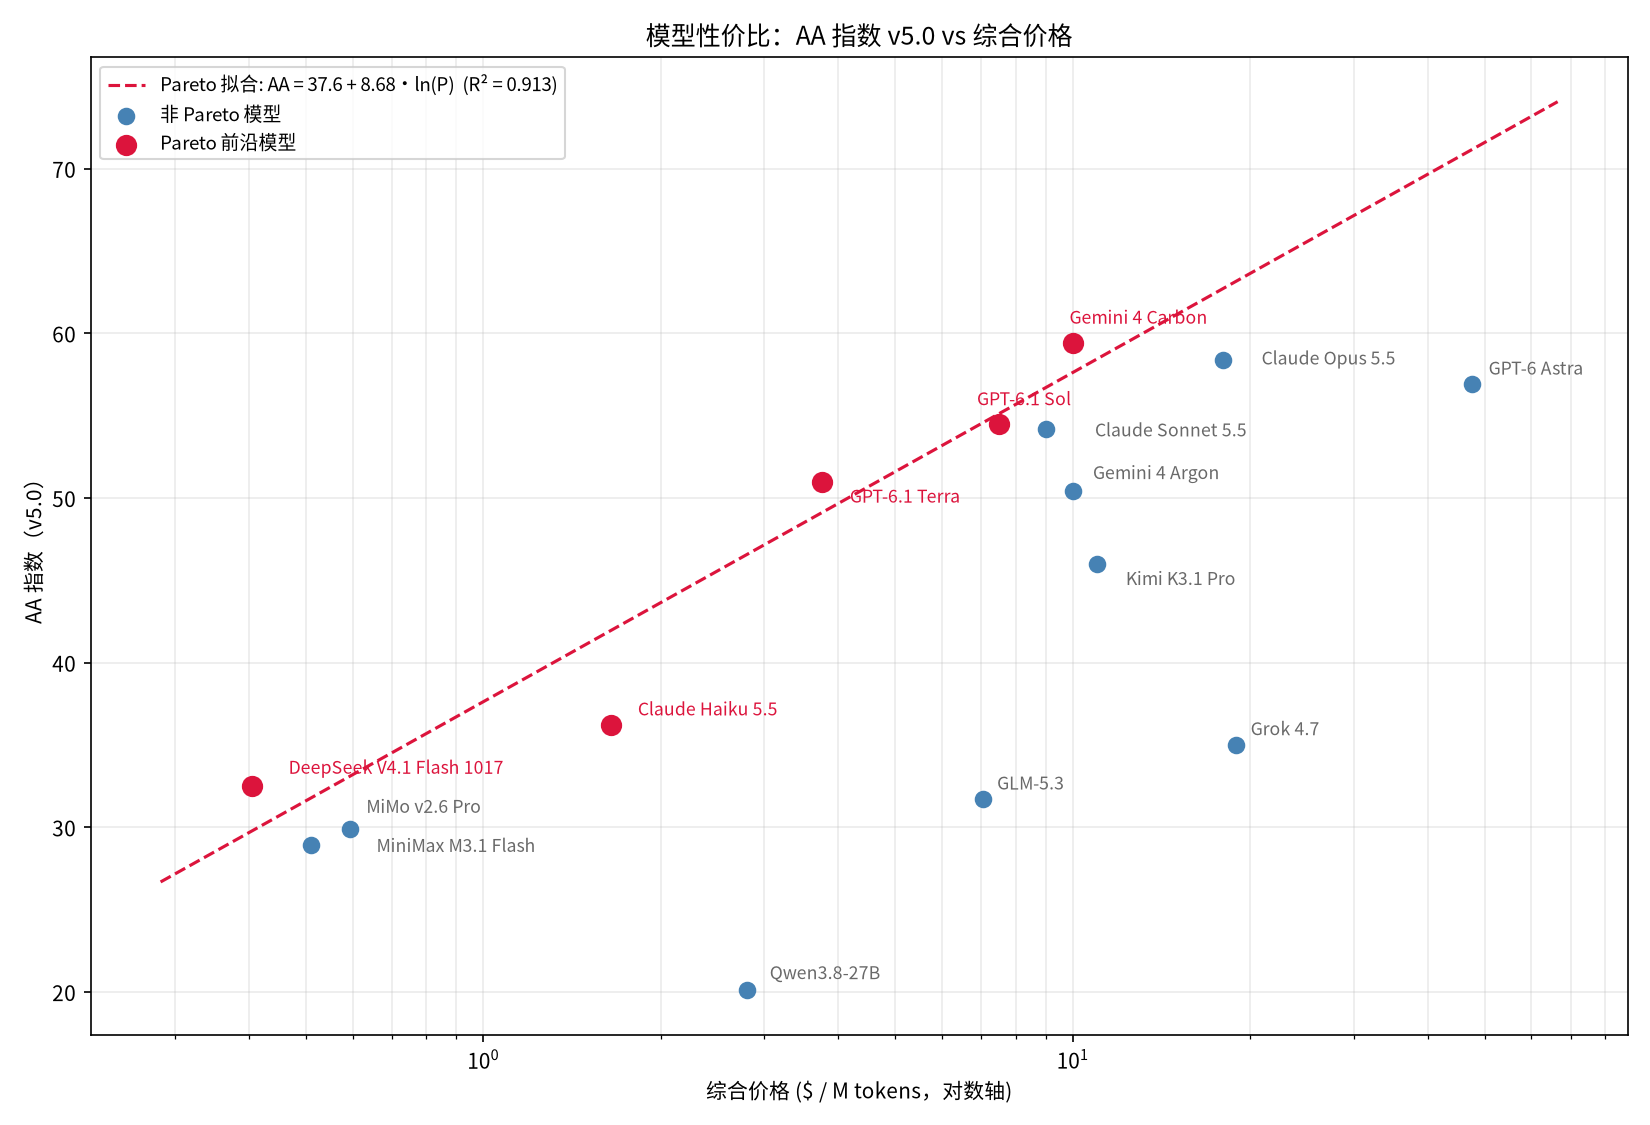
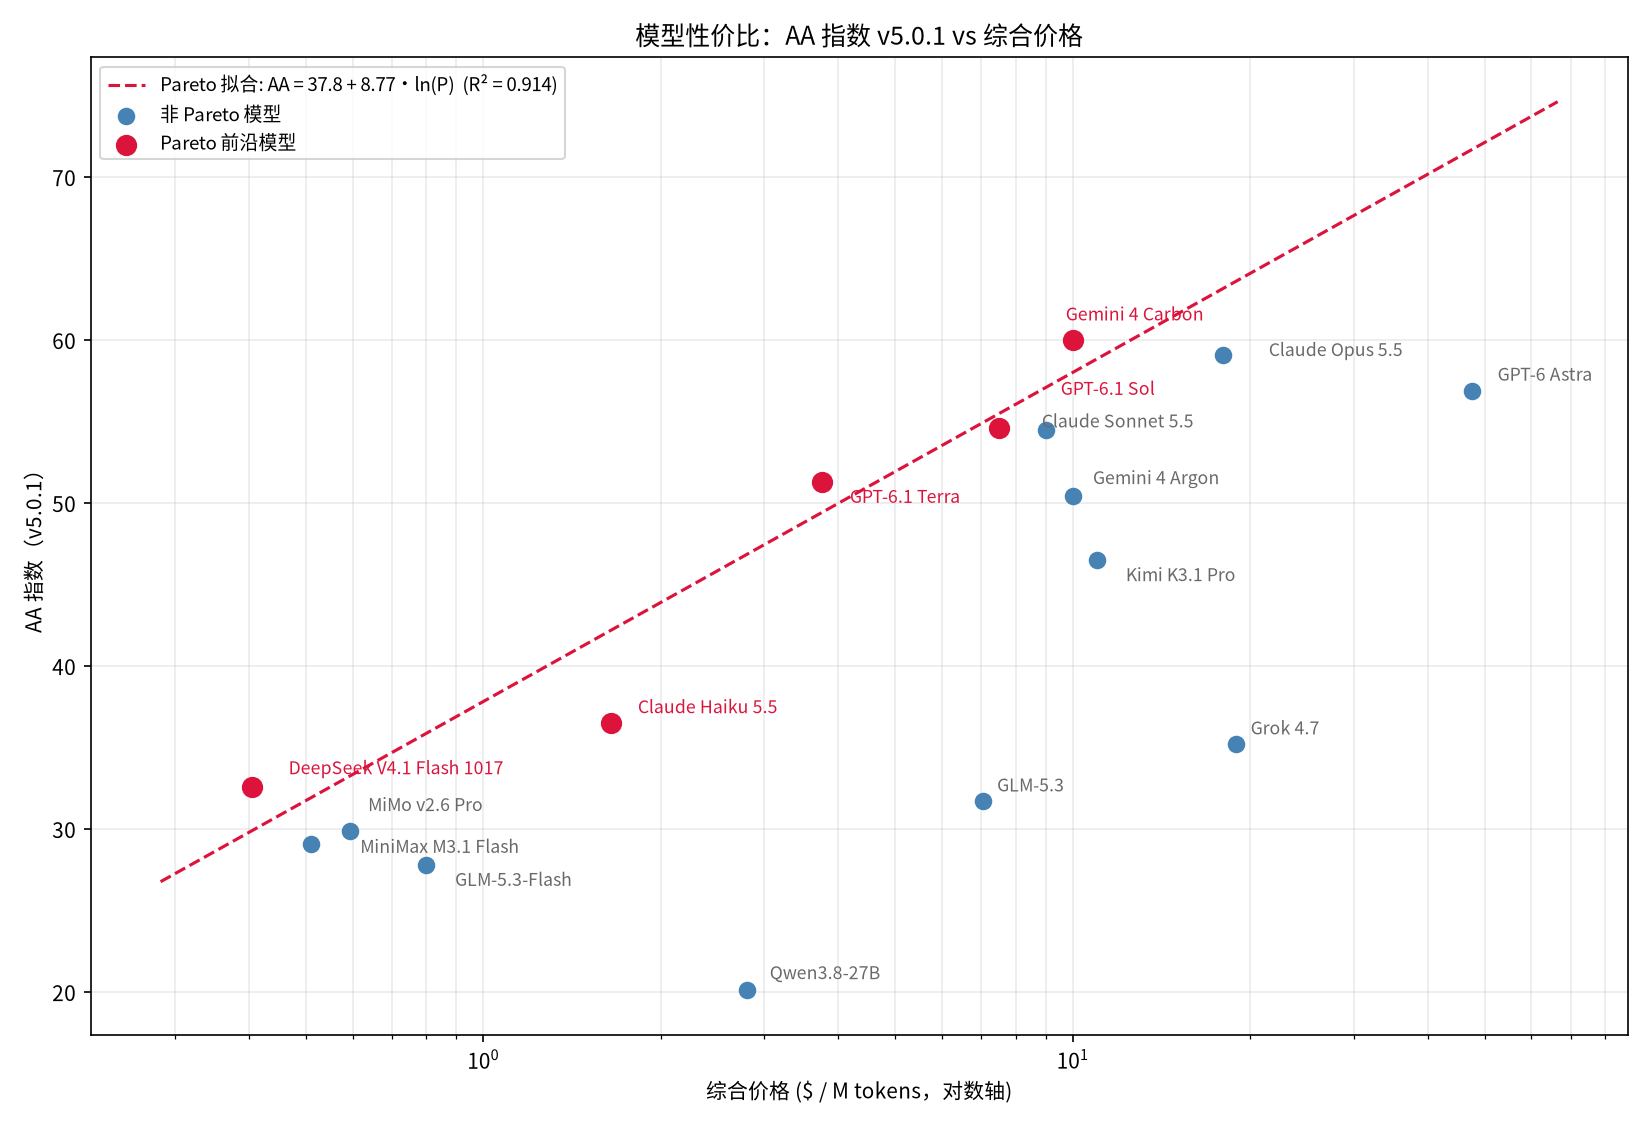
Update model benchmarks to AA v5.0.1 and add Kimi weights

diff --git a/comparison/plot_price_vs_aa.py b/comparison/plot_price_vs_aa.py
@@ -7,31 +7,31 @@ fm.fontManager.addfont("/usr/share/fonts/opentype/noto/NotoSansCJK-Regular.ttc")
 plt.rcParams["font.family"] = ["Noto Sans CJK SC", "DejaVu Sans"]
 plt.rcParams["axes.unicode_minus"] = False
 
-# 模型: (综合价格 $/M tokens, AA Intelligence Index v5.0 分数)
+# 模型: (综合价格 $/M tokens, AA Intelligence Index v5.0.1 分数)
 # 价格口径：64K/256K prompt 各 50%，缓存保留 30 分钟（见 README）。
 data = {
     "GPT-6 Astra": (47.5, 56.9),
-    "GPT-6.1 Sol": (7.5, 54.5),
-    "GPT-6.1 Terra": (3.75, 51.0),
-    "Claude Opus 5.5": (18, 58.4),
-    "Claude Sonnet 5.5": (9, 54.2),
-    "Claude Haiku 5.5": (1.65, 36.2),
-    "Gemini 4 Carbon": (10, 59.4),
+    "GPT-6.1 Sol": (7.5, 54.6),
+    "GPT-6.1 Terra": (3.75, 51.3),
+    "Claude Opus 5.5": (18, 59.1),
+    "Claude Sonnet 5.5": (9, 54.5),
+    "Claude Haiku 5.5": (1.65, 36.5),
+    "Gemini 4 Carbon": (10, 60.0),
     "Gemini 4 Argon": (10, 50.4),
-    "Grok 4.7": (18.9, 35.0),
-    "Kimi K3.1 Pro": (11, 46.0),
+    "Grok 4.7": (18.9, 35.2),
+    "Kimi K3.1 Pro": (11, 46.5),
     "MiMo v2.6 Pro": (0.594, 29.9),
     "GLM-5.3": (7.04, 31.7),
-    "GLM-5.3-Flash": (0.8, None),
-    "DeepSeek V4.1 Flash 1017": (0.405, 32.5),
-    "MiniMax M3.1 Flash": (0.51, 28.9),
+    "GLM-5.3-Flash": (0.8, 27.8),
+    "DeepSeek V4.1 Flash 1017": (0.405, 32.6),
+    "MiniMax M3.1 Flash": (0.51, 29.1),
     "Qwen3.8-Flash-Next": (0.517, None),
     "Qwen3.8-27B": (2.8, 20.1),
 }
 
 missing = [model for model, (cost, score) in data.items() if cost is None or score is None]
 if missing:
-    print("缺少标准综合价格或 AA v5.0 指数，不参与拟合与绘图:", missing)
+    print("缺少标准综合价格或 AA v5.0.1 指数，不参与拟合与绘图:", missing)
 models = [model for model in data if model not in missing]
 price = np.array([data[m][0] for m in models])
 aa = np.array([data[m][1] for m in models], dtype=float)
@@ -82,8 +82,8 @@ texts = [
     for i, m in enumerate(models)
 ]
 ax.set_xlabel("综合价格 ($ / M tokens，对数轴)")
-ax.set_ylabel("AA 指数（v5.0）")
-ax.set_title("模型性价比：AA 指数 v5.0 vs 综合价格")
+ax.set_ylabel("AA 指数（v5.0.1）")
+ax.set_title("模型性价比：AA 指数 v5.0.1 vs 综合价格")
 ax.grid(True, which="both", alpha=0.25)
 leg = ax.legend(loc="upper left", fontsize=9)
 adjust_text(texts, ax=ax, expand=(1.3, 1.5), objects=[leg])

diff --git a/comparison/README.md b/comparison/README.md
@@ -27,7 +27,7 @@
 | [Gemini 4 Carbon](https://blog.google/innovation-and-ai/models-and-research/gemini-models/introducing-gemini-4-carbon/) | 2026-10-28 | 闭 | -- | -- | V/A | 1M | -- |
 | [Gemini 4 Argon](https://blog.google/intl/zh-tw/products/explore-get-answers/gemini-4-argon/) | 2026-09-30 | 闭 | -- | -- | V/A | 1M | -- |
 | [Grok 4.7](https://x.ai/news/grok-4-7) | 2026-09-21 | 闭 | -- | -- | V | 500k | -- |
-| [Kimi K3.1 Pro](https://www.kimi.ai/blog/kimi-k3-1-pro) | 2026-10-24 | 开 | 2.8T | 104B | V | 1M | 尚未释出，11 月 4 日前发布权重 |
+| [Kimi K3.1 Pro](https://www.kimi.ai/blog/kimi-k3-1-pro) | 2026-10-24 | 开 | 2.8T | 104B | V | 1M | [权重](https://huggingface.co/moonshotai/Kimi-K3.1-Pro) |
 | [MiMo v2.6 Pro](https://mimo.mi.com/docs/zh-CN/news/latest/v2-6) | 2026-09-21 | 开 | 1.02T | 42B | V/A | 1M | [权重](https://huggingface.co/XiaomiMiMo/MiMo-V2.6-Pro-RL) · [GGUF](https://huggingface.co/ggml-org/MiMo-V2.6-Pro-RL-GGUF) |
 | [GLM-5.3](https://z.ai/blog/glm-5.3) | 2026-08-14 | 开 | 744B | 40B | -- | 1M | [权重](https://huggingface.co/zai-org/GLM-5.3) · [GGUF](https://huggingface.co/unsloth/GLM-5.3-GGUF) |
 | [GLM-5.3-Flash](https://z.ai/blog/glm-5.3-flash) | 2026-08-26 | 开 | 320B | 18B | V | 1M | [权重](https://huggingface.co/zai-org/GLM-5.3-Flash) · [GGUF](https://huggingface.co/unsloth/GLM-5.3-Flash-GGUF) |
@@ -75,40 +75,38 @@
 
 # 指标选择
 
-指标选择的要求是有公信力（不好刷题），有区分度（没有饱和），数据齐全（模型都有）。Scicode 与其他评测中个别缺失的成绩标记为 `--`。下面是几个参考指标。
+指标选择的要求是有公信力（不好刷题），有区分度（没有饱和），数据齐全（模型都有）。下面是几个参考指标。缺失成绩记为 `--`。
 
-- **[SciCode](https://artificialanalysis.ai/evaluations/scicode)**：用多个科学领域的高难编程问题衡量代码生成和算法实现能力；AA 当前对该数据集标记为 Under review，成绩应谨慎使用。
-- **[Terminal-Bench 4.0](https://artificialanalysis.ai/evaluations/terminalbench-4-0)**：用 66 项更难的真实终端任务衡量 agent 的命令执行、环境操作、错误恢复和长流程完成能力，调整了计算资源和时间限制，并改进指令、运行环境与验证器。
-- **[AutomationBench](https://artificialanalysis.ai/evaluations/automationbench-aa)**：用 657 个模拟 SaaS 工作流衡量 agent 的跨应用工具调用、业务规则执行、状态修改和安全约束遵守能力；当前表采用 AA 的 AutomationBench-AA 分数。
-- **[HLE](https://artificialanalysis.ai/evaluations/humanitys-last-exam)**：用专家审核的跨学科前沿问题衡量知识与高难推理的综合能力；原始题集有 2500 题，AA 本列实际采用 2158 道纯文本题、无工具评测，不与 1000 题的 HLE-Diamond 混用。
-- **[CritPt](https://artificialanalysis.ai/evaluations/critpt)**：用物理学研究者设计的 70 道未公开前沿问题衡量研究级科学推理能力，采用数值数组、符号表达式和 Python 函数等抗猜测答案格式；保留原版，不与带代码执行工具的 CritPt v2 混用。
-- **[AA 指数](https://artificialanalysis.ai/articles/artificial-analysis-intelligence-index-v5)**：采用 2026-10-27 发布的 v5.0，以九项独立评测生成综合分，作为快速比较模型整体水平的摘要而不是新的独立能力维度。v5 移除了 SciCode，HLE 和 CritPt 分别升级为 HLE-Diamond 和 CritPt v2 hard subset；本表仍独立保留旧版基础指标，因此 AA 指数不是这五列的平均值，亦不能与旧表 v4.3.2 分数直接比较。
-- 五个基础指标按能力分组为：SciCode、Terminal-Bench 4.0（代码）；AutomationBench（Agent 执行）；HLE、CritPt（推理）。AA 指数单独作为综合指标保留。
+- **[FrontierCode 2.0](https://artificialanalysis.ai/evaluations/frontiercode-2-0)**（表头 FrontierCode 2）：132 项真实开源仓库修改任务，通过测试与评分规则评价软件工程能力；阻断检查失败则该任务得零分。
+- **[Terminal-Bench 4.0](https://artificialanalysis.ai/evaluations/terminalbench-4-0)**（表头 Terminal-Bench 4）：66 项真实终端任务，衡量实现、调试、环境操作与任务完成能力，与仓库修改互补。
+- **[AutomationBench-AA](https://artificialanalysis.ai/evaluations/automationbench-aa)**（表头 AutomationBench）：657 项模拟 SaaS 工作流，衡量跨应用工具调用、业务规则执行和状态修改；触犯安全约束的任务得零分。
+- **[HLE-Diamond](https://artificialanalysis.ai/evaluations/hle-diamond)**：1000 道高难问题，知识与推理各 500 题，包含图像题，不允许工具；采用总分，不混用旧版纯文本 HLE 或仅 Reasoning 子分。
+- **[CritPt v2（Hard Subset）](https://artificialanalysis.ai/evaluations/critpt-v2)**（表头 CritPt v2 Hard）：允许离线代码执行的研究级物理难题；采用指数使用的 40 题困难子集，不混用 70 题全集或原版 CritPt。
+- **[AA 指数 v5.0.1](https://artificialanalysis.ai/methodology/intelligence-benchmarking)**：九项评测构成的综合指标，独立保留。上述五项只是其中一部分，因此 AA 指数不是这五列的平均值；新旧版单项成绩也不能直接比较。
 
 # Benchmark 数据
 
-| 模型 | SciCode | Terminal-Bench 4.0 | AutomationBench | HLE | CritPt | AA指数 v5.0 | 性价比 |
+| 模型 | FrontierCode 2 | Terminal-Bench 4 | AutomationBench | HLE-Diamond | CritPt v2 Hard | AA指数 v5.0.1 | 性价比 |
 |---|---:|---:|---:|---:|---:|---:|---:|
-| [GPT-6 Astra](https://artificialanalysis.ai/models/gpt-6-astra) | 56.5% | 59.1% | 68.5% | 54.7% | 31.7% | 56.9 | 73.3% |
-| [GPT-6.1 Sol](https://artificialanalysis.ai/models/gpt-6-1-sol) | 54.2% | 56.1% | 64.9% | 52.9% | 31.7% | 54.5 | **90.6%** |
-| [GPT-6.1 Terra](https://artificialanalysis.ai/models/gpt-6-1-terra) | 55.1% | 55.6% | 60.2% | 46.2% | 28.0% | 51.0 | **95.2%** |
-| [Claude Opus 5.5 (with fallback)](https://artificialanalysis.ai/models/claude-opus-5-5) | 66.9% | 59.6% | 69.5% | 61.4% | 31.7% | 58.4 | 85.3% |
-| [Claude Sonnet 5.5 (with fallback)](https://artificialanalysis.ai/models/claude-sonnet-5-5) | 61.0% | 63.6% | 71.8% | 55.0% | 31.4% | 54.2 | 87.6% |
-| [Claude Haiku 5.5](https://artificialanalysis.ai/models/claude-haiku-5-5) | 55.0% | 32.8% | 35.4% | 44.4% | 18.9% | 36.2 | **79.0%** |
-| [Gemini 4 Carbon](https://artificialanalysis.ai/models/gemini-4-carbon) | 64.2% | 65.2% | 77.8% | 60.4% | 36.0% | 59.4 | **94.5%** |
-| [Gemini 4 Argon](https://artificialanalysis.ai/models/gemini-4-argon) | 61.8% | 57.1% | 77.5% | 57.1% | 27.1% | 50.4 | 80.1% |
-| [Grok 4.7](https://artificialanalysis.ai/models/grok-4-7-high) | 57.8% | 24.7% | 63.5% | 42.3% | 18.0% | 35.0 | 50.8% |
-| [Kimi K3.1 Pro](https://artificialanalysis.ai/models/kimi-k3-1-pro) | 60.8% | 67.2% | 73.3% | 52.5% | 24.6% | 46.0 | 72.1% |
-| [MiMo v2.6 Pro](https://artificialanalysis.ai/models/mimo-v2-6-pro) | 60.9% | 34.8% | 58.6% | 49.4% | 26.6% | 29.9 | 82.8% |
-| [GLM-5.3](https://artificialanalysis.ai/models/glm-5-3) | 59.0% | 41.9% | 62.2% | 42.3% | 19.1% | 31.7 | 53.2% |
-| [GLM-5.3-Flash](https://artificialanalysis.ai/models/glm-5-3-flash) | 51.6% | 32.8% | 60.4% | 39.9% | 15.4% | -- | -- |
-| [DeepSeek V4.1 Flash 1017](https://artificialanalysis.ai/models/deepseek-v4-1-flash-1017) | 55.9% | 33.8% | 66.6% | 43.3% | 24.0% | 32.5 | **100.0%** |
-| [MiniMax M3.1 Flash](https://artificialanalysis.ai/models/minimax-m3-1-flash) | 53.4% | 25.8% | 72.5% | 48.0% | 22.3% | 28.9 | 83.3% |
-| [Qwen3.8-Flash-Next](https://artificialanalysis.ai/models/qwen3-8-flash-next) | 50.6% | 25.3% | 55.9% | 38.0% | 11.1% | -- | -- |
-| [Qwen3.8-27B](https://artificialanalysis.ai/models/qwen3-8-27b) | 46.6% | 5.6% | 48.2% | 33.9% | 5.4% | 20.1 | 39.5% |
+| [GPT-6 Astra](https://artificialanalysis.ai/models/gpt-6-astra) | 42.4% | 59.1% | 68.5% | 63.8% | 70.5% | 56.9 | 72.8% |
+| [GPT-6.1 Sol](https://artificialanalysis.ai/models/gpt-6-1-sol) | 40.6% | 56.1% | 64.9% | 58.8% | 69.5% | 54.6 | **90.2%** |
+| [GPT-6.1 Terra](https://artificialanalysis.ai/models/gpt-6-1-terra) | 42.3% | 55.6% | 60.2% | 47.3% | 68.0% | 51.3 | **95.2%** |
+| [Claude Opus 5.5 (with fallback)](https://artificialanalysis.ai/models/claude-opus-5-5) | 46.4% | 59.6% | 69.5% | 67.9% | 68.0% | 59.1 | 85.8% |
+| [Claude Sonnet 5.5 (with fallback)](https://artificialanalysis.ai/models/claude-sonnet-5-5) | 41.7% | 63.6% | 71.8% | 53.3% | 59.0% | 54.5 | 87.5% |
+| [Claude Haiku 5.5](https://artificialanalysis.ai/models/claude-haiku-5-5) | 34.9% | 32.8% | 35.4% | 29.6% | 43.5% | 36.5 | **79.3%** |
+| [Gemini 4 Carbon](https://artificialanalysis.ai/models/gemini-4-carbon) | 40.6% | 65.2% | 77.8% | 69.1% | 69.0% | 60.0 | **94.8%** |
+| [Gemini 4 Argon](https://artificialanalysis.ai/models/gemini-4-argon) | 25.7% | 57.1% | 77.5% | 56.7% | 52.5% | 50.4 | 79.7% |
+| [Grok 4.7](https://artificialanalysis.ai/models/grok-4-7-high) | 27.8% | 24.7% | 63.5% | 23.6% | 37.0% | 35.2 | 50.8% |
+| [Kimi K3.1 Pro](https://artificialanalysis.ai/models/kimi-k3-1-pro) | 25.5% | 67.2% | 73.3% | 37.3% | 49.5% | 46.5 | 72.5% |
+| [MiMo v2.6 Pro](https://artificialanalysis.ai/models/mimo-v2-6-pro) | 24.0% | 34.8% | 58.6% | 15.2% | 34.0% | 29.9 | 82.5% |
+| [GLM-5.3](https://artificialanalysis.ai/models/glm-5-3) | 21.6% | 41.9% | 62.2% | 17.9% | 33.5% | 31.7 | 52.9% |
+| [GLM-5.3-Flash](https://artificialanalysis.ai/models/glm-5-3-flash) | 17.6% | 32.8% | 60.4% | 18.2% | 24.5% | 27.8 | 71.1% |
+| [DeepSeek V4.1 Flash 1017](https://artificialanalysis.ai/models/deepseek-v4-1-flash-1017) | 28.5% | 33.8% | 66.6% | 25.3% | 25.0% | 32.6 | **100.0%** |
+| [MiniMax M3.1 Flash](https://artificialanalysis.ai/models/minimax-m3-1-flash) | 20.8% | 25.8% | 72.5% | 28.1% | 32.5% | 29.1 | 83.6% |
+| [Qwen3.8-Flash-Next](https://artificialanalysis.ai/models/qwen3-8-flash-next) | -- | 25.3% | 55.9% | 16.3% | -- | -- | -- |
+| [Qwen3.8-27B](https://artificialanalysis.ai/models/qwen3-8-27b) | 14.9% | 5.6% | 48.2% | 15.3% | 4.0% | 20.1 | 39.3% |
 
-- 数据核查日期：2026-10-29；AA 指数版本：v5.0。表中 AA 指数保留一位小数。
-- SciCode 整项评测当前为 Under review，保留 AA 已发布成绩并提示审查状态；不再沿用仅 MiniMax 的 SciCode/CritPt 处于审查中的旧注释。
+- 数据核查日期：2026-11-05；AA 指数版本：v5.0.1。表中 AA 指数保留一位小数。
 - 数据优先采用AA独立评测，其次采用官方模型卡/报告。两者均不存在时，参考采信第三方评价或官方估计值。
 - 闭源推理模型使用表中成绩对应的高推理档位；Claude Opus/Sonnet 5.5 的 AA 评测启用了默认 fallback，因此单独标注。
 - GPT-6 Astra、GPT-6.1 Sol/Terra、Claude Opus/Sonnet/Haiku 5.5、GLM-5.3 和 DeepSeek V4.1 Flash 1017 使用 Max 档；Gemini 4 Carbon、Argon 和 Grok 4.7 使用 High 档；Qwen3.8-27B 使用 Xhigh 档，其余使用各自默认推理档位。
@@ -117,8 +115,8 @@
 
 - 性价比使用上文 API 价格区块的综合价格与本区块的 AA 指数计算。
 - 性价比从当前表中选出“相同或更低综合价格下不存在更高 AA 指数模型”的全部 Pareto 前沿模型，拟合得到性价比预测线。然后计算每个模型的 AA 指数相对预测指数的百分比，再对总体归一化。归一化采用所有模型性价比乘以当前模型集合中最高原始性价比的倒数，使最高分恰为 100%，其余分数均落在 0–100% 区间。性价比是当前模型集合内的相对比较，模型或价格变化后需要重新筛选 Pareto 前沿并整体重算。
-- 当前拟合得到的性价比预测线为 `预期 AA 指数 = 37.6271 + 8.6828 × ln(综合价格)`（R² = 0.913）。归一化为 `实际 AA 指数 / 预期 AA 指数 × 91.6276%`。
-- GLM-5.3-Flash 和 Qwen3.8-Flash-Next 缺少 AA v5.0 指数，性价比记为 `--`，不参与拟合与绘图。图中包含尚未公开开放的 Carbon，因此 Pareto 前沿不等同于当前可用 API 的采购建议。
+- 当前拟合得到的性价比预测线为 `预期 AA 指数 = 37.8174 + 8.7685 × ln(综合价格)`（R² = 0.914）。归一化为 `实际 AA 指数 / 预期 AA 指数 × 91.6928%`。
+- Qwen3.8-Flash-Next 缺少 AA v5.0.1 指数，性价比记为 `--`，不参与拟合与绘图。图中包含尚未公开开放的 Carbon，因此 Pareto 前沿不等同于当前可用 API 的采购建议。
 - Pareto模型的性价比已经被加粗。
 - 价格-AA 关系图（横轴为对数综合价格，纵轴为 AA 指数，红点为 Pareto 前沿模型，红色虚线为 Pareto 拟合线）：
 
@@ -145,7 +143,7 @@
 
 - 评测升级到5之后，很多模型评分就大幅降低了。
 - 最强阵营里，Opus 5.5的领先位置被大幅降低，又恢复了御三家混战的格局。
-- Kimi K3.1 Pro从第四到了第九，变成第一阵营吊车尾。
+- Kimi K3.1 Pro 的 AA v5.0.1 指数为 46.5，在本表 17 款模型中排名第八，是表内开放权重模型最高分，已经进入最强阵营的混战中。
 - 第二集群里，GLM-5.3 的 AA 指数被 DeepSeek V4.1 Flash 1017 反超。这个集群实际上已经没什么价值了。
 - 高性价比部分。MiMo v2.6 Pro 的评分被大幅下调，反而落后于 DeepSeek V4.1 Flash 1017 了。DeepSeek V4.1 Flash 1017 直接封神。
 - Qwen3.8-27B自己一桌吃饭，地位始终无人挑战。
